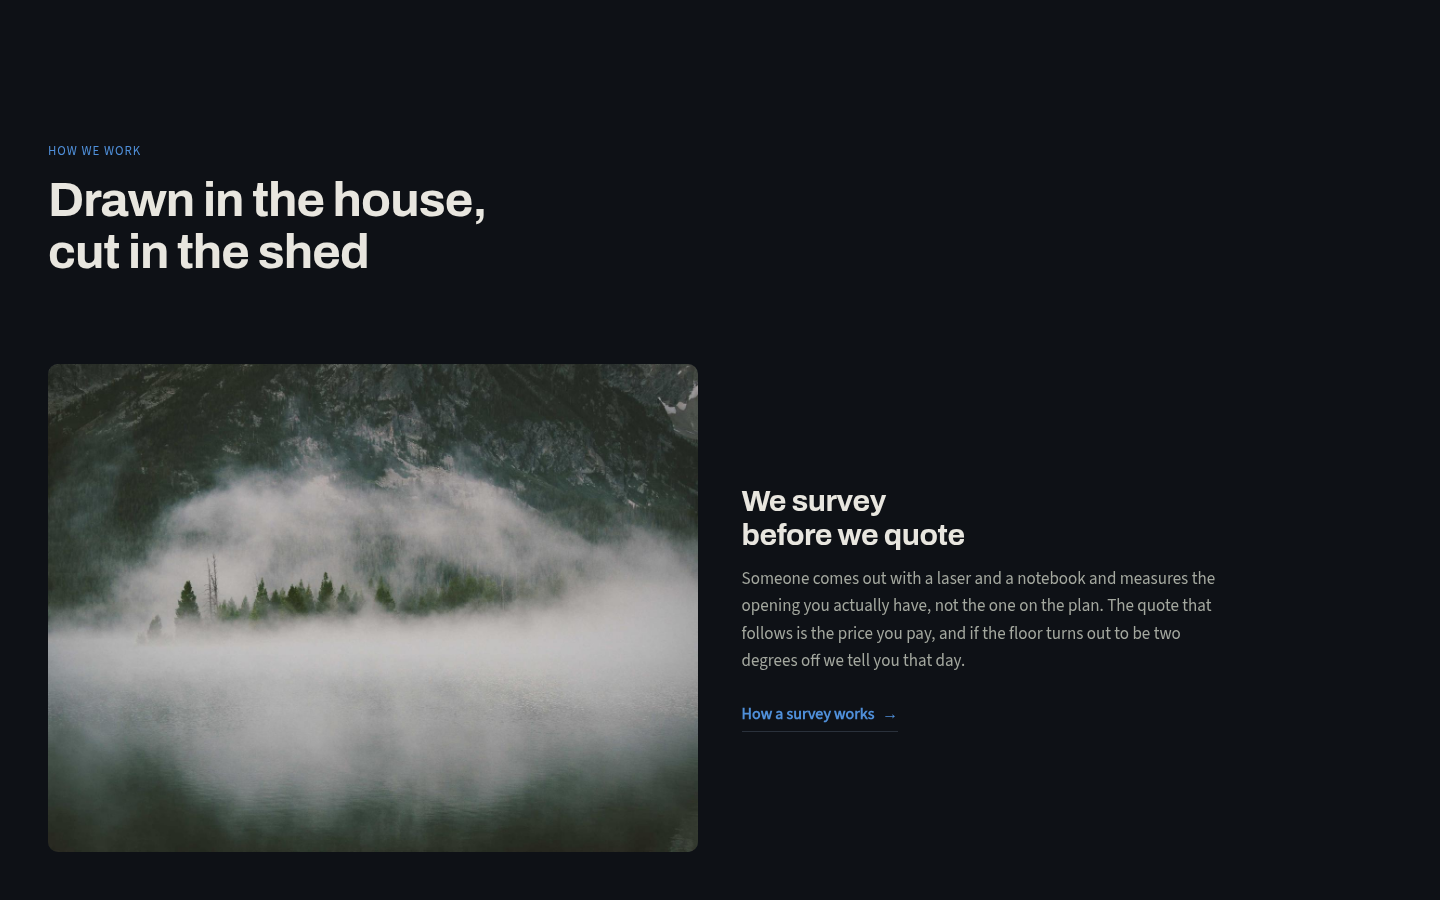
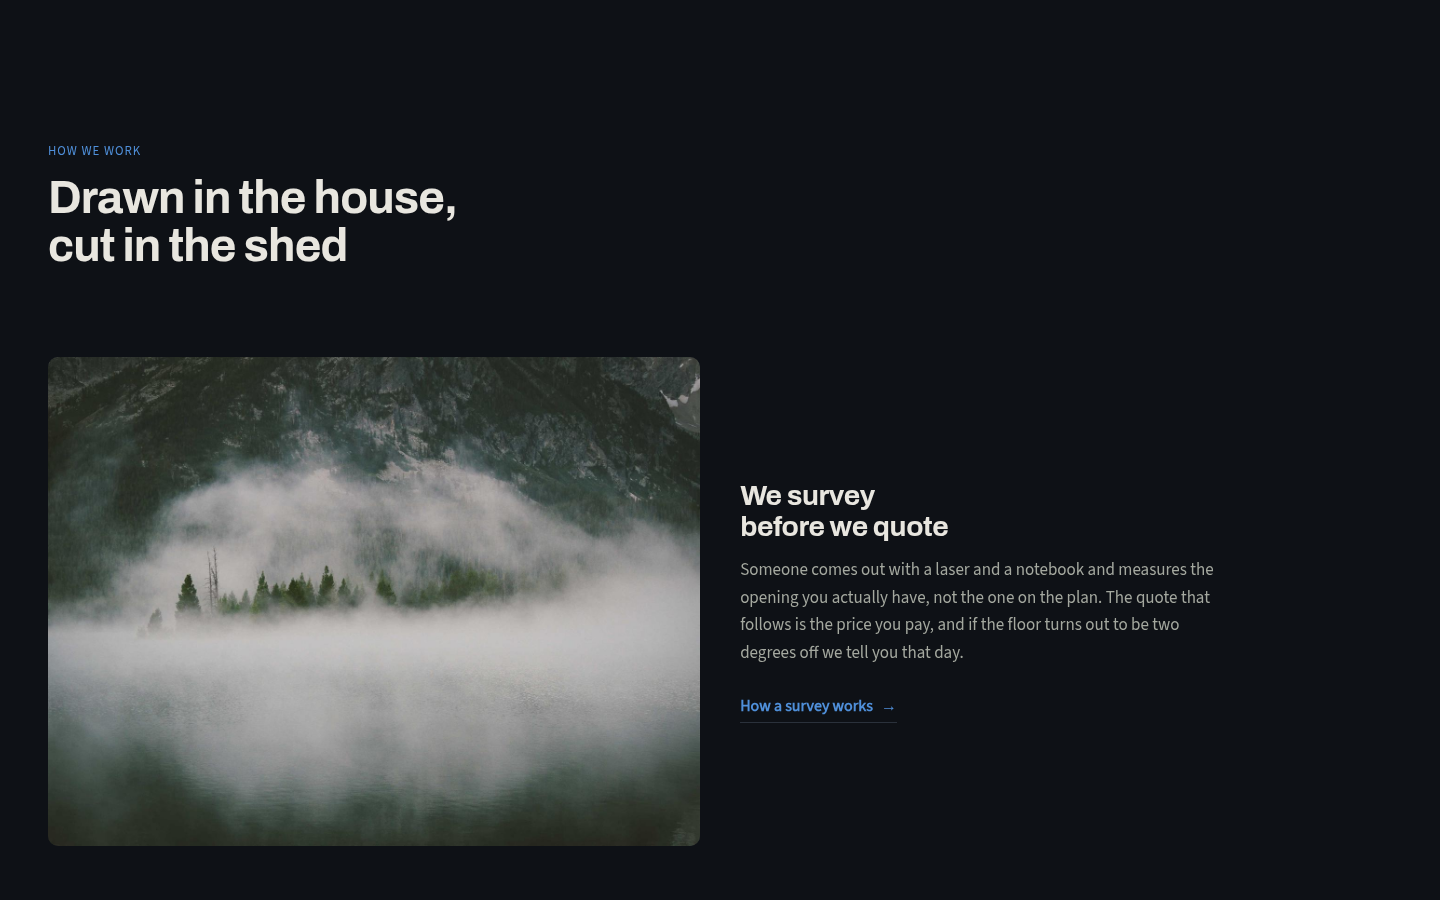
docs: record the v3.2 ceiling closures and re-render the library previews
Re-render all 26 composition previews against the CSS the round changed, and
make the docs describe the plugin that now exists.

Nine previews moved, all at 1440 and none at 390. A container query length
resolves against the container content box, so on the nine compositions that
declare container-type and the padding-inline content inset on the same
element, cqi at 1440 is 13.44px against vw 14.4 and every converted ramp in an
active clamp band lands 4-7% smaller. hero-split, hero-type and process-rail
put that inset one level in, so cqi equals vw there and their previews are
byte-identical; footer-line carries no ramp. At 390 every converted ramp is
already pinned to its clamp minimum under both units. Nothing reflowed.

The v1.15.0 baseline demo no longer exists on disk, so the before/after walk
was made two-sided instead of historical: a five-page corpus assembled from
the thirteen in-repo compositions, walked with demo-verify.mjs as of 1.15.0
(0 findings, exit 0) and with this revision (16 unobserved, 0 of every other
kind, exit 0). All 16 are parallax images that are their own bounds entry and
publish nothing samplable - the per-section scoping, on a real page. The
client demo was not re-walked, and a composition corpus is cleaner than a real
build; that ceiling is recorded.

Also corrects the Task 4 changelog entry (36 cqi / 4 vw, not 37 / 3) and
records motion.js:147 setting overflowX on the rail rather than the frame as a
known follow-up.

diff --git a/CHANGELOG.md b/CHANGELOG.md
@@ -34,11 +34,15 @@
   `clamp()` gaps, padding and type scales still keyed off the viewport, so a
   section dropped into a narrow column laid out for the column and then took
   desktop-maximum spacing anyway — 40 occurrences across 12 of the 13
-  compositions. 37 now read `cqi`, tracking the block's own inline size. The
-  remaining 3 — the display headline of each full-bleed hero (`hero-bleed`,
-  `hero-split`, `hero-type`) — stay `vw`, each with a comment recording that it
-  is sized against the viewport on purpose: a hero in a narrow column is not a
-  scenario those compositions serve. `tests/checks/wp-craft-compositions.sh`
+  compositions. 36 now read `cqi`, tracking the block's own inline size. The
+  remaining 4 stay `vw`, each with a comment recording why. Three are the display
+  headline of each full-bleed hero (`hero-bleed`, `hero-split`, `hero-type`),
+  sized against the viewport on purpose: a hero in a narrow column is not a
+  scenario those compositions serve. The fourth is `feature-zigzag`'s root `gap`,
+  which *cannot* be `cqi` — that rule is the element declaring `container-type`,
+  and an element never matches a container query against the container it
+  establishes itself, so `cqi` there would resolve against the viewport while
+  reading as if it tracked the block. `tests/checks/wp-craft-compositions.sh`
   asserts every remaining `vw` carries that justification on its own line or the
   line directly above it, so one justified ramp can no longer green-light every
   other `vw` left in the same file.
@@ -89,6 +93,43 @@
   (`querySelectorAll`) and `parentElement`-rooted ancestor walk unchanged.
   `skills/wp-demo-craft/references/verify.md` and `CLAUDE.md` no longer record
   the top-level-only scope as a known limit.
+
+### Changed
+- **All 26 composition previews re-rendered against the changed CSS.** Nine moved,
+  all of them at 1440 and none at 390, and the split is arithmetic rather than luck.
+  A container query length resolves against the query container's *content* box, so
+  on the nine compositions whose root carries both `container-type: inline-size` and
+  the `padding-inline` content inset, `cqi` at a 1440 viewport is 13.44px against
+  `vw`'s 14.4 — every converted ramp inside an active `clamp()` band lands 4-7%
+  smaller, which is the conversion doing exactly what it says. `hero-split`,
+  `hero-type` and `process-rail` did not move because their inset sits on `__inner`
+  / `__frame` rather than on the container, so `cqi` there equals `vw`; `footer-line`
+  carries no fluid ramp at all. No preview moved at 390: at that width every
+  converted ramp is already pinned to its `clamp()` minimum under both units. No
+  composition changed structurally, which is the signal that no ramp was converted
+  in the wrong place.
+- **The before/after walk was measured on a composition corpus, not on the v1.15.0
+  client demo.** That demo no longer exists on disk — the project is now a WordPress
+  install and the demo was consumed into the theme — so the comparison was made
+  two-sided instead of historical: a five-page corpus assembled from the thirteen
+  in-repo compositions (`composition-gate.sh`'s document shape plus the generated
+  `:root`, `motion.css`, GSAP and `motion.js`) was walked twice, once with
+  `bin/demo-verify.mjs` as of 1.15.0 and once with this revision. Release: **0
+  findings, exit 0**. This revision: **16 `unobserved`, 0 of every other kind, exit
+  0** — advisory, so the exit code is unchanged. Every one of the 16 is a parallax
+  image that is its own bounds entry (`hero-bleed__bed`, and `hero-split`'s unclassed
+  `<img>`): a one-device subtree whose only device publishes no `--motion-p`, which
+  the document-wide count could never see because the reveals elsewhere on the page
+  kept `samplable` non-zero. That is the per-section scoping, on a real page, and
+  nothing else in the corpus moved: no `dead-scroll`, no `no-engine`, no
+  `container-noop` in either walk — the library's nested `@container` rules all match,
+  so the deeper recursion found nothing new to report on clean input. A composition
+  corpus is cleaner than a real client build, so this shows the harness changed
+  behaviour as intended without showing what a messy build now scores; the ceiling is
+  recorded in `CLAUDE.md`.
+- README and `docs/commands.md` no longer describe the fluid `vw` ramps as open work,
+  and state that `unobserved` is counted per section while `no-engine` stays
+  document-wide.
 
 ## [1.15.0] - 2026-09-10
 

diff --git a/docs/commands.md b/docs/commands.md
@@ -162,8 +162,9 @@ the browser supports `animation-timeline: view()` and the reader has not asked f
 motion; `motion.js` yields that device there and runs every other one. Without the stylesheet a
 demo in a modern browser reveals nothing. Sections are built from the composition library, whose
 size-based breakpoints are `@container` queries against each composition's own container rather
-than the viewport — the fluid `vw` ramps in `clamp()` still key off the screen, which is recorded
-open work. Plain mode is the existing single-file demo with no motion contract.
+than the viewport, and the fluid ramps in `clamp()` read `cqi` against that same container — the
+four that stay `vw` are sized against the screen on purpose and each carries a comment saying so.
+Plain mode is the existing single-file demo with no motion contract.
 
 Each round of the craft loop runs `/wp-demo-verify demo/` — served over HTTP, not `file://` —
 for the `impeccable detect` gate and a machine walk. `no-engine` (a page with zero `data-motion`
@@ -305,12 +306,16 @@ Eight machine findings, six blocking and two advisory. Blocking: `dead-scroll` (
 moved — including nothing samplable at all, the `file://`-blocked-engine case — or a
 `reveal`-only section whose child does not move between just-below-the-fold and fully-entered,
 unless `demo/BRIEF.md` records the silence as authored), `no-engine` (a page carrying zero
-`data-motion` devices), `container-noop` (an `@container` rule whose subject has no ancestor
-declaring `container-type`, so the rule never applies), `cue-never-peaks` (a cue that never
+`data-motion` devices — counted document-wide, so a plain `<section>` on a page that does move
+reports nothing at all), `container-noop` (an `@container` rule whose subject has no ancestor
+declaring `container-type`, so the rule never applies — collected at any nesting depth, including
+inside `@media`, `@supports` and `@layer`), `cue-never-peaks` (a cue that never
 reaches full opacity), `overflow` (horizontal), and `clipped-copy` (copy clipped by its own
 hidden-overflow box). Advisory — printed with `[advisory]`, written to `findings.json` with
-`"advisory": true`, never raise the exit code: `unobserved` (a section the walk genuinely could
-not read — the harness cannot tell that apart from a section that truly does not move) and
+`"advisory": true`, never raise the exit code: `unobserved` (a section whose own devices the walk
+could not read — counted inside that section's subtree, so a section carrying only pointer
+devices reports this instead of `dead-scroll`; the harness still cannot tell it apart from a
+section that truly does not move) and
 `external-module` (a `<script type="module">` that would silently fail to boot under `file://`
 instead of the HTTP server this walk uses). The craft loop in `/wp-demo` treats the six blocking
 kinds as round failures and writes `demo/FAILED.md` at the three-round cap; `unobserved` and

diff --git a/CLAUDE.md b/CLAUDE.md
@@ -244,9 +244,29 @@ These are deliberate, documented limits — not bugs to "fix" on sight:
   1280px; }` alongside `:root`, so an invalid value falls back to `initial-value`
   instead. Where `@property` is unsupported, the `1280px` `var()` fallback remains
   the only guard, and it still covers only the absent case.
-- **`unobserved` is a confession, not a measurement.** A section that genuinely
-  does not move and a section the harness cannot read are still not distinguished
-  by the harness — only by which finding it emits and what the operator does next.
+- **`unobserved` is a confession, not a measurement.** It is now a per-section
+  judgment — `probe()` counts devices inside the section's own subtree, so a section
+  carrying only pointer devices (`tilt`, `magnet`, `spotlight`) reports it instead of
+  falling to a blocking `dead-scroll` — but a section that genuinely does not move and
+  a section the harness cannot read are still not distinguished by the harness, only
+  by which finding it emits and what the operator does next. `no-engine` stays
+  document-wide on purpose: scoping it too would fire on every ordinary static section.
+- **The harness changes were measured on a composition corpus, not on a client
+  build.** The v1.15.0 baseline demo named in the plan no longer exists on disk — that
+  project is now a WordPress install and its demo was consumed into the theme — so the
+  before/after walk was run on a five-page corpus assembled from the thirteen in-repo
+  compositions instead, with the release commit's `demo-verify.mjs` and with HEAD's.
+  That proves the harness changed behaviour as intended; it does not prove what a
+  messy real build now scores, and a composition corpus is cleaner than one.
+- **Two verification paths are still not covered.** Item F's last preview-token bypass
+  — a reassignment at `composition-preview.mjs`'s render call site, which happens after
+  `--tokens` has exited and which no assertion on that output can see — needs the render
+  itself to close. And `motion.js`'s GSAP `reveal` branch is never walked, because
+  nothing in the suite runs a browser without `animation-timeline`.
+- **`motion.js:147` sets `overflowX` on the rail, not on the frame.** Same bug class as
+  the `process-rail` reduced-motion fix, one layer down and currently inert: the rail is
+  `width: max-content`, so it can never overflow internally and the assignment does
+  nothing. Not fixed in this round; it becomes real the day the rail takes a width.
 - **Verification serves over HTTP; the delivered demo is a `file://` artifact.**
   A defect that only appears when the file is double-clicked can pass a green walk.
   `external-module` findings name the one case known to matter.

diff --git a/README.md b/README.md
@@ -176,7 +176,8 @@ catalogue of 64 real-brand DESIGN.md files, classifies the client's domain again
 and inventories every image, SVG and font under `docs/` into `demo/BRIEF.md` with a role, used
 or named with a reason. It builds every section from the plugin's composition library — every
 composition's size-based breakpoints are `@container` queries against its own container rather
-than the viewport, though its fluid `vw` ramps in `clamp()` still key off the screen — and loops
+than the viewport, and its fluid ramps in `clamp()` read `cqi` and track that container too,
+except for the four that are sized against the screen on purpose — and loops
 on `npx -y impeccable@4 detect`, a seven-line critique rubric, and a `demo-verify.mjs` walk
 (served over HTTP, not `file://`; `no-engine` and `container-noop` join `dead-scroll` as
 blocking findings, `unobserved` and `external-module` stay advisory) for at most three rounds. A
